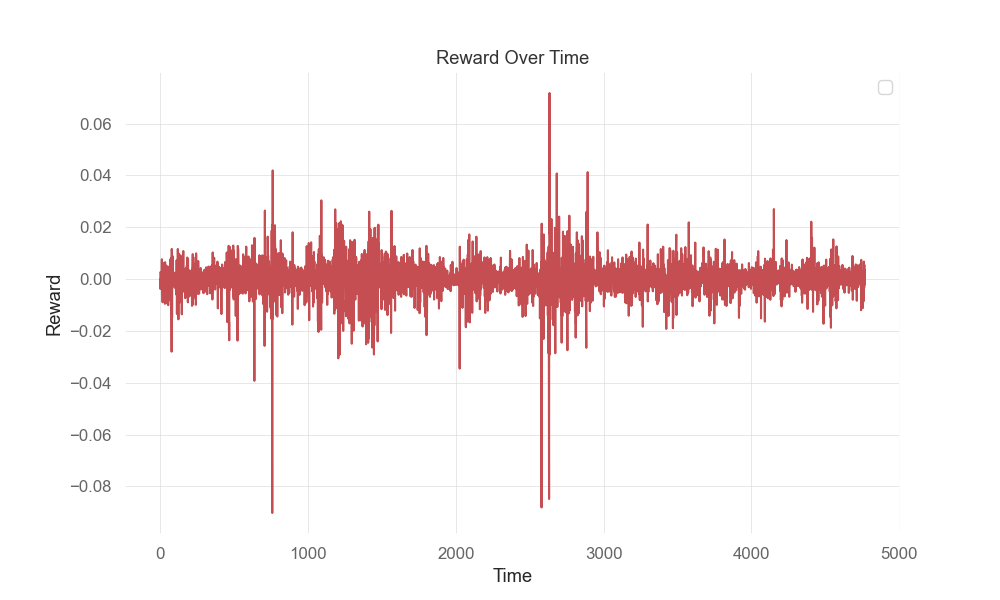
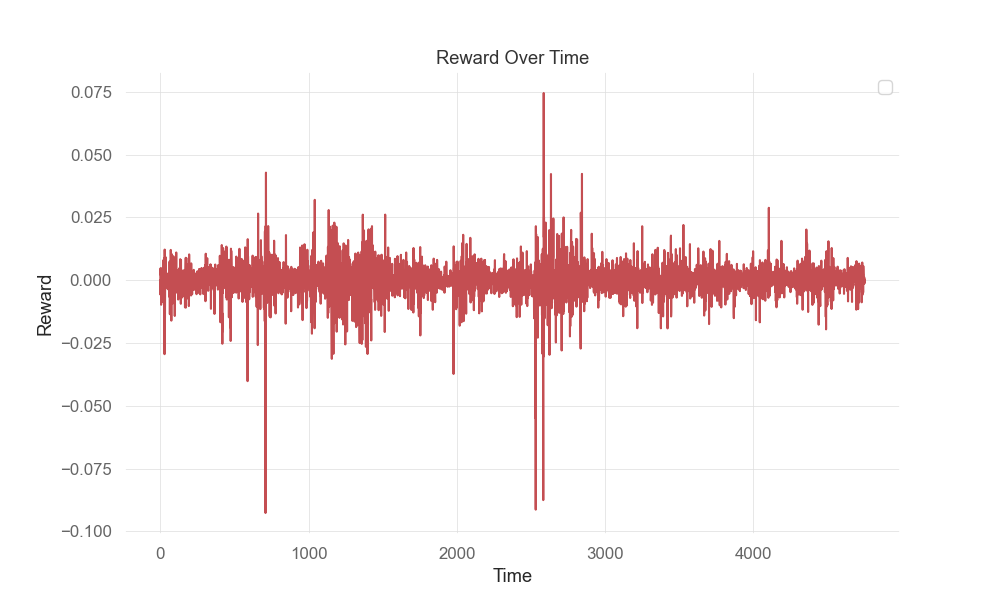
remove the functionl of EIIE,because it is to slow to execute the progarm

diff --git a/project/EIIE/lib/engine.py b/project/EIIE/lib/engine.py
@@ -15,16 +15,20 @@ class EngineBase():
         self.policy = self.policy.to(self.policy.device)
 
     def work(self, df: pd.DataFrame):
-        environment = PortfolioOptimizationEnv(
-            df,
-            initial_amount=50000,
-            comission_fee_pct=0.0025,
-            time_window=50,
-            features=["close", "high", "low"]
-        )
-        self.last_order_info = self._performance(environment=environment)
+        # environment = PortfolioOptimizationEnv(
+        #     df,
+        #     initial_amount=50000,
+        #     comission_fee_pct=0.0025,
+        #     time_window=50,
+        #     features=["close", "high", "low"]
+        # )
+        # self.last_order_info = self._performance(environment=environment)
         # this is to stop EIIE,because i find it costs too much taxs and fees
         # [('Cash_asset', 0.10379037), ('ARUSDT', 0.3012763), ('BNBUSDT', 0.2963091), ('BTCDOMUSDT', 0.2986242)] 
+
+        self.last_order_info =[('Cash_asset',0)] + [(each_symbol,0)for each_symbol in list(set(df['tic'].to_list()))]
+        print("舊的:",self.last_order_info)
+
         new_out_put = []
         for _each_key_value in self.last_order_info:
             _each_key_value = list(_each_key_value)
@@ -36,6 +40,7 @@ class EngineBase():
             new_out_put.append(tuple(_each_key_value))
 
         self.last_order_info = new_out_put
+        print("新的:",self.last_order_info)
 
     def _performance(self, environment: PortfolioOptimizationEnv):
         """

diff --git a/project/DQN/lib/offical_transformer.py b/project/DQN/lib/offical_transformer.py
@@ -49,6 +49,7 @@ class TransformerDuelingModel(nn.Module):
         super().__init__()
         self.batch_first = batch_first
         self.pos_encoder = PositionalEncoding(d_model, dropout)
+        
         encoder_layers = TransformerEncoderLayer(
             d_model, nhead, d_hid, dropout, batch_first=self.batch_first)
         self.transformer_encoder = TransformerEncoder(encoder_layers, nlayers)
